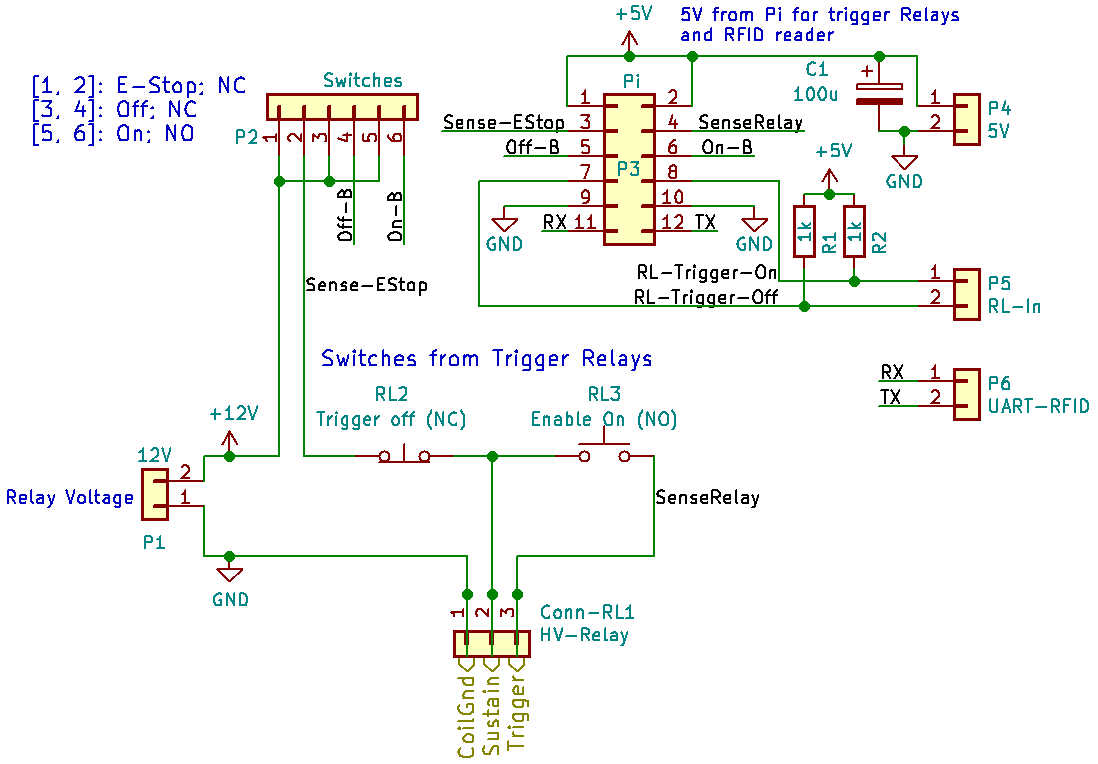
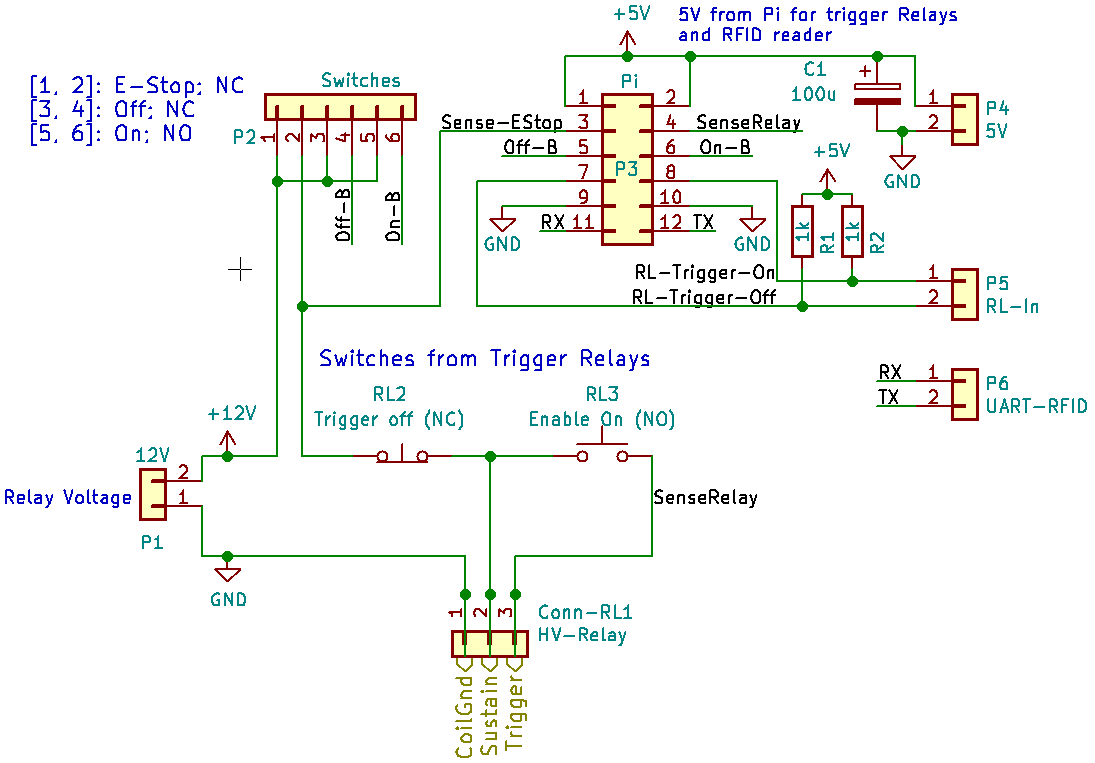
Fix typo in README. Wire a signal directly (instead of labels) where possible.

diff --git a/README.md b/README.md
@@ -2,7 +2,7 @@ Sparkleswitch
 =============
 
 The Noisebridge Laser cutter is an expensive piece of machinery that has
-some non-negligible running cost and requires some saftey-training before use.
+some non-negligible running cost and requires some safety-training before use.
 
 We require to authenticate with an RFID showing previous laser training
 in order to switch the laser on. This project contains the relevant electronics
@@ -81,7 +81,7 @@ are represented as hexagons.
 ## Connection
 
 The connection between the switch-box and the Pi (which is mounted behind the
-LED display) is a simple flat cable with and IDC connector on both ends.
+LED display) is a simple flat cable with an IDC connector on both ends.
 Opto-couplers on the Raspberry Pi-end are used to make the inputs of
 the Pi 12V tolerant (as all inputs are 12V levels).
 
